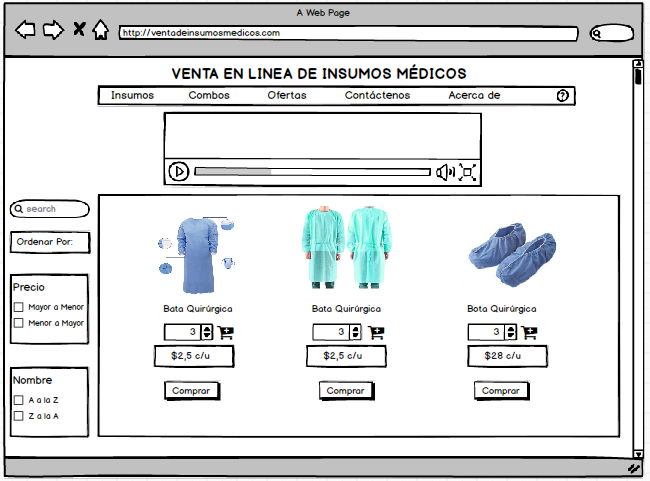
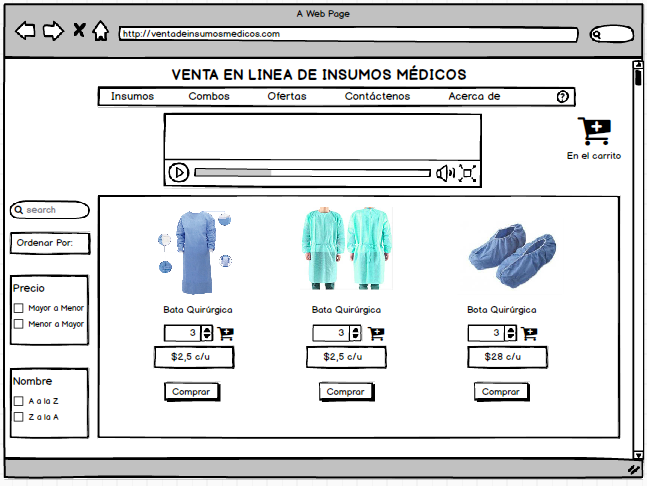
Avance 2 Trabajo complementairo

diff --git a/trabajoComplementario1.html b/trabajoComplementario1.html
@@ -44,6 +44,21 @@
         <br>
         <h4>Página Principal</h4>
         <img src="./imagenes/paginaPrincipal.PNG" alt="No se ha podido cargar la imágen" width="700" height="500">
+        <br>
+        <h4>Sección de Combos</h4>
+        <img src="./imagenes/seccionCombos.PNG" alt="No se ha podido cargar la imágen" width="700" height="500">
+        <br>
+        <h4>Sección de Ofertas</h4>
+        <img src="./imagenes/seccionOfertas.PNG" alt="No se ha podido cargar la imágen" width="700" height="500">
+        <br>
+        <h4>Sección Contáctanos</h4>
+        <img src="./imagenes/seccionContactanos.PNG" alt="No se ha podido cargar la imágen" width="700" height="550">
+        <br>
+        <h4>Sección Acerca De</h4>
+        <img src="./imagenes/seccionAcercade.PNG" alt="No se ha podido cargar la imágen" width="700" height="500">
+        <br>
+        <h4>Sección de Carrito</h4>
+        <img src="./imagenes/seccionCarrito.PNG" alt="No se ha podido cargar la imágen" width="700" height="500">
     </section>
     <section>
         <h2>Desarrollador: </h2> <!--Información del desarrollador. Próximamente será ubicada en la sección "ACERCA DE" del menú principal-->
@@ -54,42 +69,114 @@
             de su agrado y pueda facilitar su compra!</p> <!--Se usan etiquetas como strong o p, para darle mayor énfasis a ciertos puntos del párrafo-->
         <img src="./imagenes/desarrollador2.jpg" alt="No se puede cargar la imágen"  width="200" height="350"> <!--Se inserta una imágen del desarrollador web -->
     </section>
-    <br><br><br>
-    <h2>Características del proyecto</h2>
-    <table border=1> <!--Tabla que contiene información sobre el proyecto-->
-        <tr> 
-            <td>      <!--Permite establecer qué columnas tendrá la tabla-->        
-                Características
-            </td>
-            <td>
-                Recursos
-            </td>
-            <td>
-                Tiempo de entrega
-            </td>
-        </tr>
-        <tr> <!--Llenamos las filas de acuerdo a la información del  proyecto, teniendo en cuenta las columnas que ya se establecieron -->
-            <td>
-                Recursos
-            </td>
-            <td>
-                Características
-            </td>
-            <td>
-                Características
-            </td>
-        </tr>
-        <tr>
-            <td>
-                Tiempo de entrega
-            </td>
-            <td>
-                Características
-            </td>
-            <td>
-                Características
-            </td>
-        </tr>
-    </table>
+    
+    <br><br>
+    <section>
+        <h2>Características del proyecto</h2>
+        <table border=1> <!--Tabla que contiene información sobre el proyecto-->
+            <tr> 
+                <td>      <!--Permite establecer qué columnas tendrá la tabla-->        
+                    Características
+                </td>
+                <td>
+                    Recursos
+                </td>
+                <td>
+                    Tiempo de entrega
+                </td>
+            </tr>
+            <tr> <!--Llenamos las filas de acuerdo a la información del  proyecto, teniendo en cuenta las columnas que ya se establecieron -->
+                <td>
+                    Menú Desplegable
+                </td>
+                <td>
+                    Manejo de css
+                </td>
+                <td>
+                    1 semana
+                </td>
+            </tr>
+            <tr>
+                <td>
+                    Sección con diferentes tipos de búsqueda
+                </td>
+                <td>
+                    Diseño de tablas
+                </td>
+                <td>
+                    1 día
+                </td>
+            </tr>
+            <tr>
+                <td>
+                    Video en página principal
+                </td>
+                <td>
+                    Etiquetas html
+                </td>
+                <td>
+                    1 día
+                </td>
+            </tr>
+            <tr>
+                <td>
+                    Carrito para añadir a compras
+                </td>
+                <td>
+                    Manejo de JavaScrip
+                </td>
+                <td>
+                    3 días
+                </td>
+            </tr>
+        </table>
+    </section>
+    <br><br>
+    <section>
+        <h2>Opciones principales</h2>
+        <ol>
+            <li>
+                Añadir productos al carrito
+            </li>
+            <li>
+                Comprar
+            </li>
+            <li>
+                Pagar
+            </li>
+            <li>
+                Buscar productos
+            </li>
+            <li>
+                Factura
+            </li>
+            <li>
+                Realizar alguna queja
+            </li>
+            <li>
+                Contactar ayuda
+            </li>
+            <li>
+                Enviar pedido
+            </li>
+            <li>
+                Ordenar productos por nombre o precio
+            </li>
+        </ol>
+    </section>
+    <section>
+        <h2>Usuarios</h2>
+        <ul>
+            <li>
+                Médicos
+            </li>
+            <li>
+                Padres de familia
+            </li>
+            <li>
+                Persona que necesite los productos y cuente con tarjeta bancaria
+            </li>
+        </ul>
+    </section>
 </body>
 </html>
